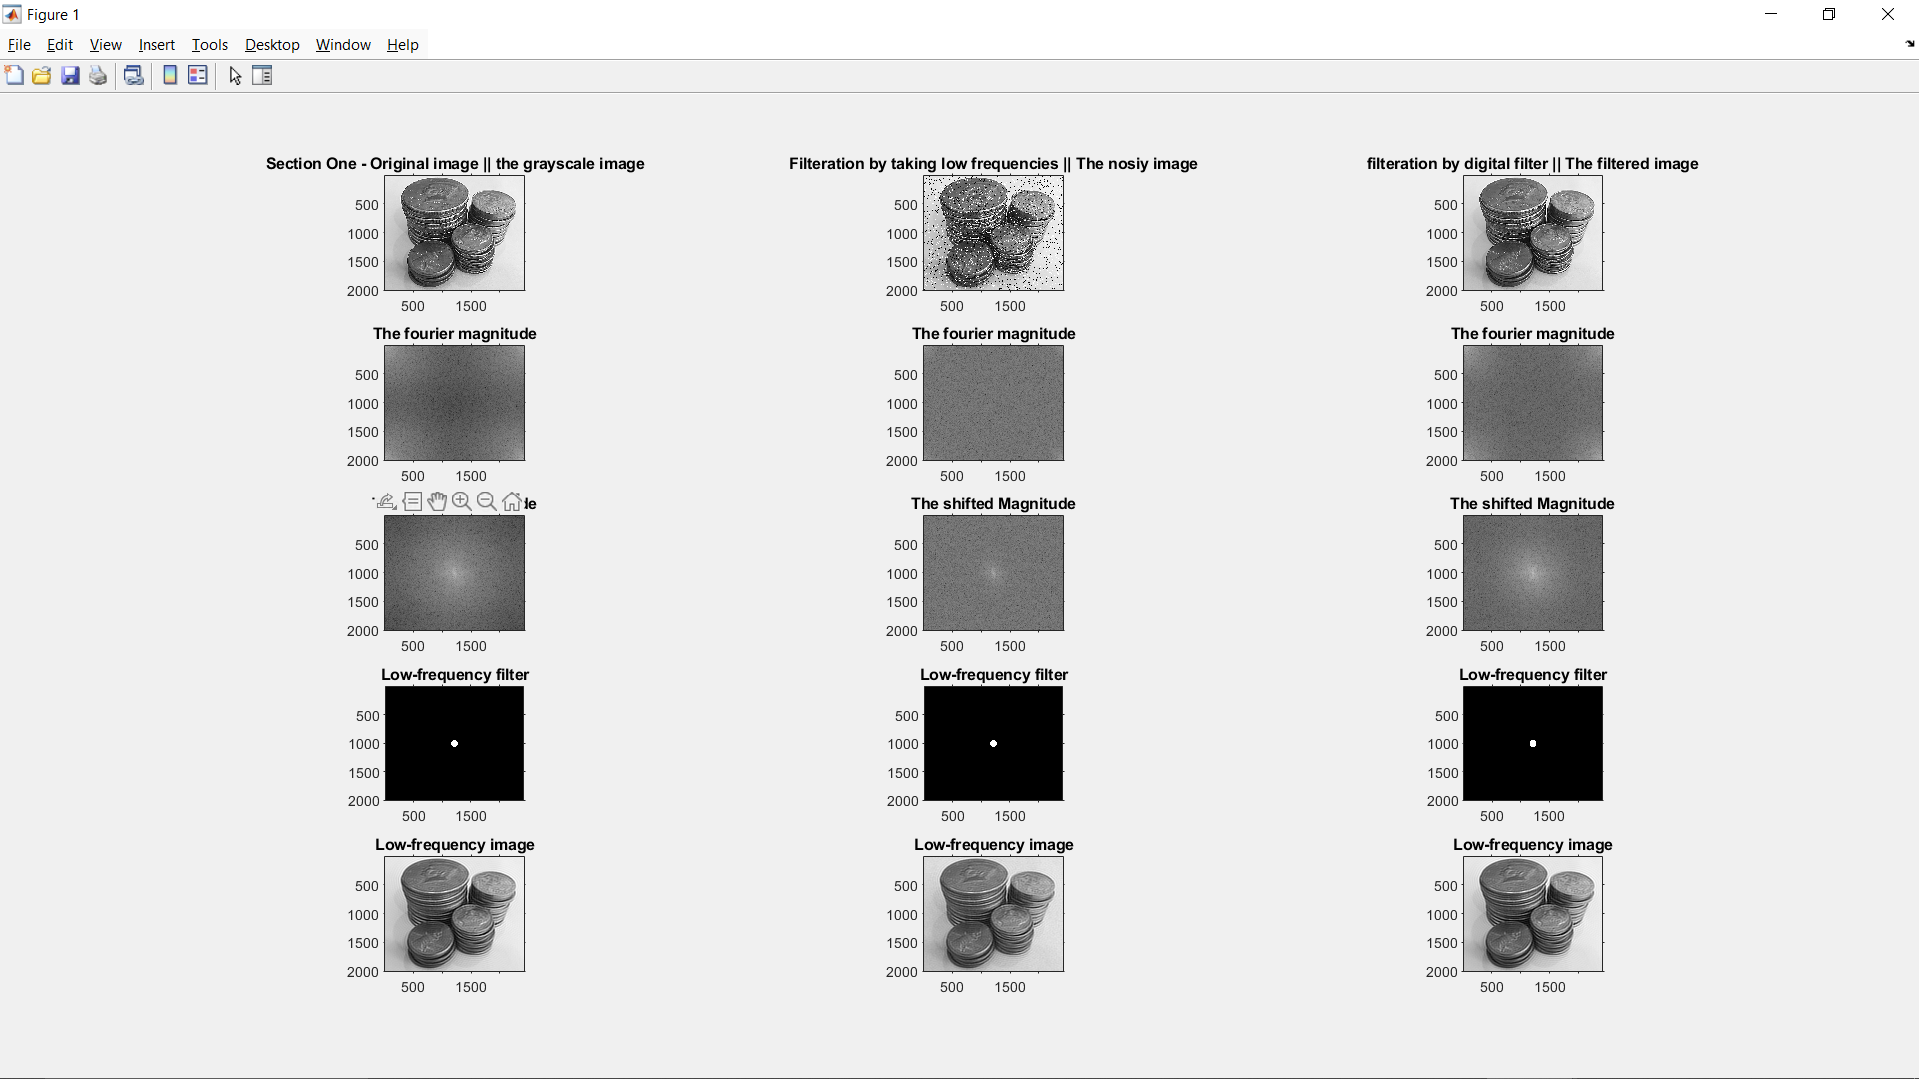
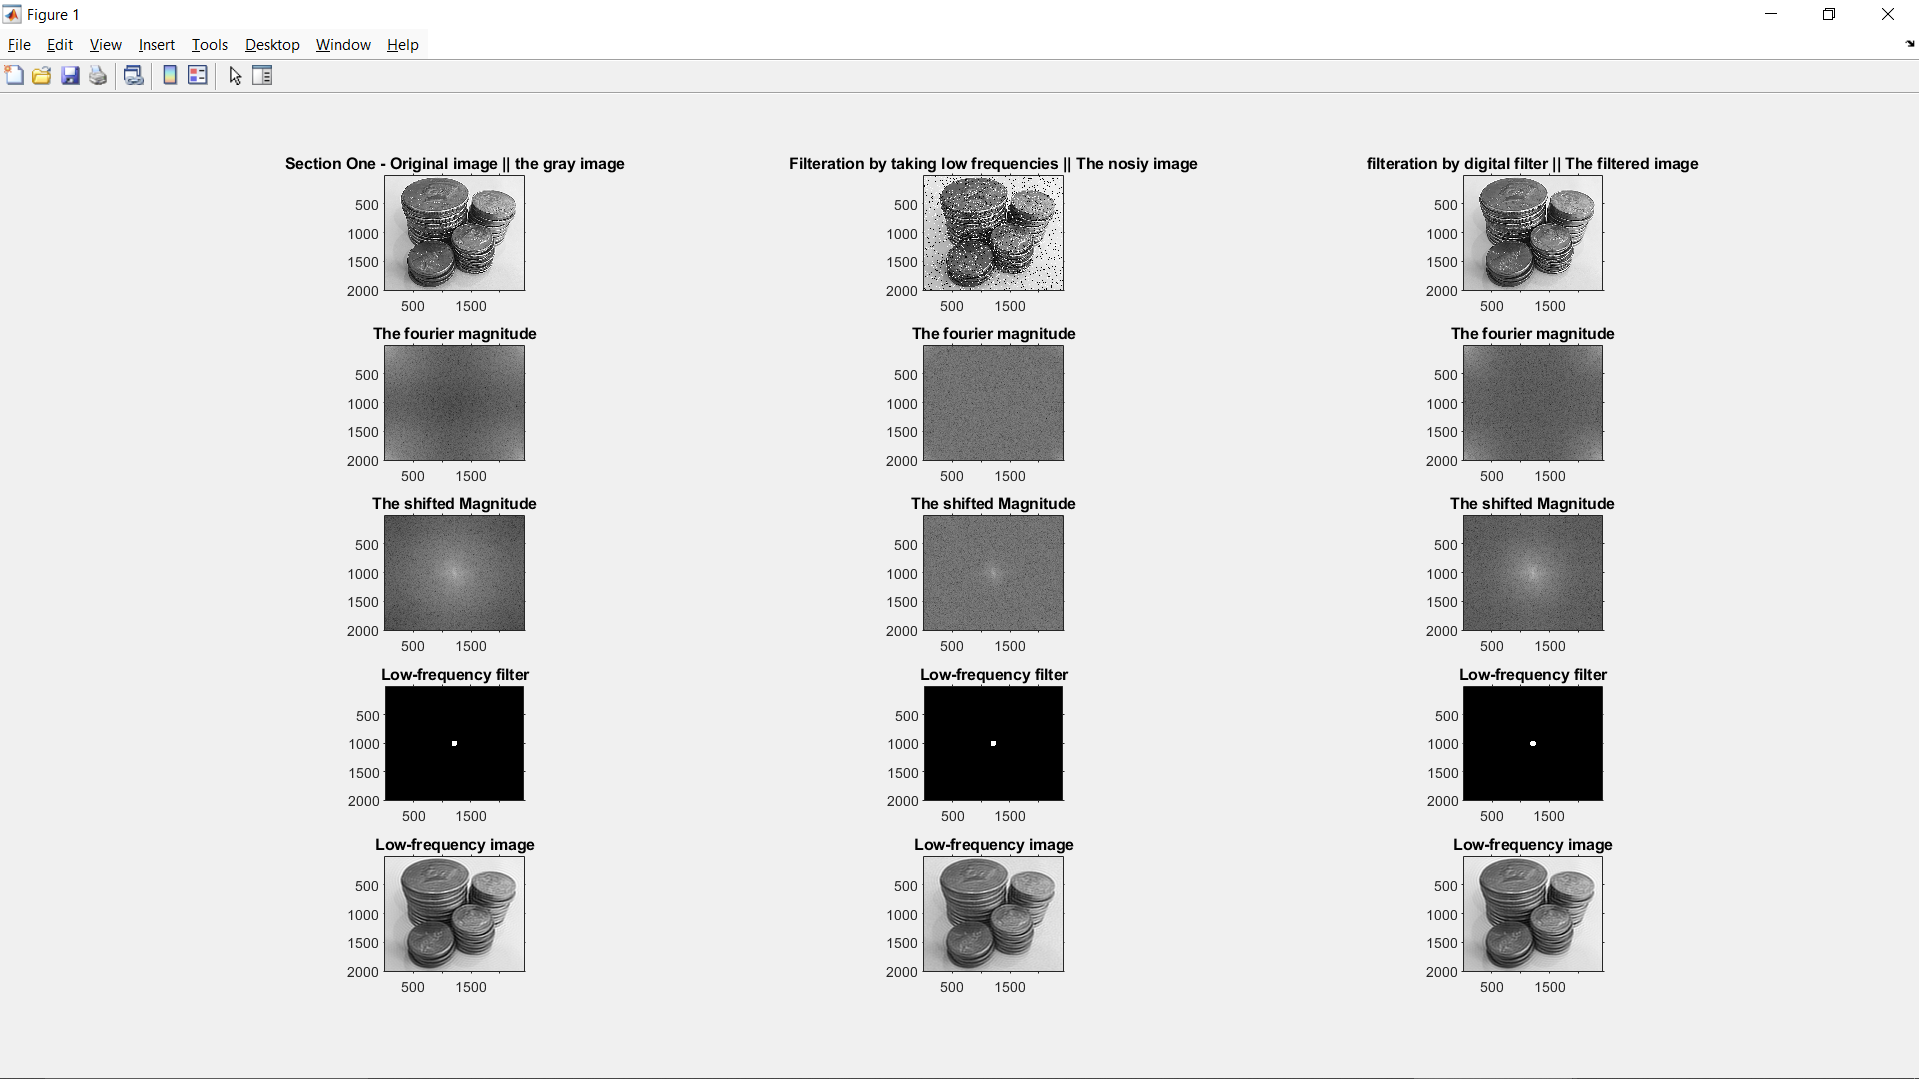
Update images output & files

diff --git a/Image Processing/fft_filterWithoutComments.m b/Image Processing/fft_filterWithoutComments.m
@@ -1,13 +1,15 @@
 %1=========================================================================
 clc;                close all;            clear;             
 %2=======================================================The Colorful Image
-originalImage = imread('MathImg.png'); 
+imagePath = input("Enter the path of the image: ", 's'); 
+originalImage = imread(imagePath);   
+
 subplot(4,2,1); imshow(originalImage) 
 title('The Colorful Image'); axis on;
-%3======================================================The Grayscale Image
+%3======================================================The Gray Image
 grayImage = rgb2gray(originalImage); 
 subplot(4,2,3); imshow(grayImage)
-title('The Grayscale Image'); axis on;
+title('The Gray Image'); axis on;
 %3==============================================The Fourier Magnitude Image
 fourierTransformed = fft2(grayImage);  
 fourierMagnitude = log(1 + abs(fourierTransformed)); 

diff --git a/Image Noise Reduction/ImageNoiseReductionWithoutComments.m b/Image Noise Reduction/ImageNoiseReductionWithoutComments.m
@@ -1,11 +1,11 @@
 %% Section 1 ==============================================================
 clc;                   close all;                 clear;
-%========================================================Original grayscale
-originalImage = imread('coins.png');
-grayImage = rgb2gray(originalImage);
+%========================================================Original gray
+imagePath = input("Enter the path of the image: ", 's'); 
+grayImage = rgb2gray(imread(imagePath));   
 
 subplot(5,3,1), imshow(grayImage)
-title('Section One - Original image || the grayscale image'); axis on;
+title('Section One - Original image || the gray image'); axis on;
 %=========================================================Fourier magnitude
 fourierTransformed = fft2(grayImage);
 fourierMagnitude = log(1 + abs(fourierTransformed));
